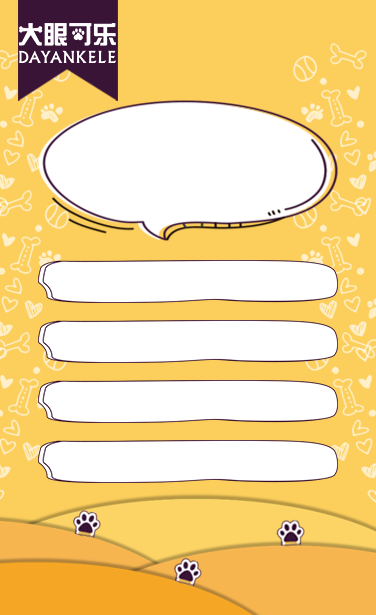
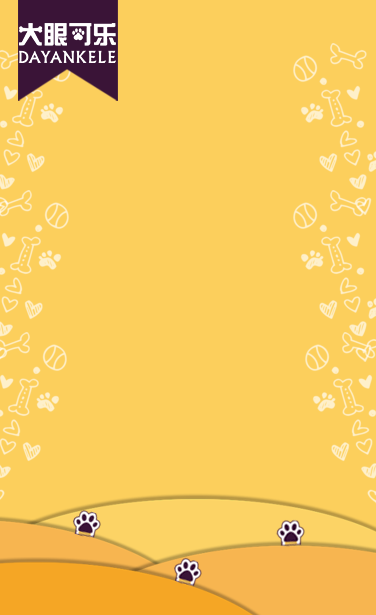
修改定制宠粮界面

diff --git a/wxchat/templates/wxchat/dogorder.html b/wxchat/templates/wxchat/dogorder.html
@@ -12,50 +12,76 @@
         top: 0;
         width: 100%;
         height: 100%;
-        max-width: 23.5em;
-        max-height: 38.4375em;
         z-index: 0;
         right: 0;
+        bottom: 0;
         margin: auto;
         background: url({% static 'wxchat/images/card_bg.png' %}) no-repeat;
-        background-size: 100% auto;
-        -moz-background-size: 100% auto;
-        -webkit-background-size: 100% auto;
+        background-size: 100% 100%;
+        -moz-background-size: 100% 100%;
+        -webkit-background-size: 100% 100%;
     }
 
-    .check_label{
-        height: 40px;
-        line-height: 40px;
-        padding: 0;
-        padding-left:55px;
-        margin-top:20px;
+    .card_middle{
+        width: 80%;
+        height: 70%;
+
+        position: absolute;
+        left: 50%;
+        top: 50%;
+        transform: translate(-50%,-50%);
     }
-    .check_label:first-child{
-        margin-top:34px;
+
+    .card_hd{
+        background: url({% static 'wxchat/images/card_title.png' %}) no-repeat;
+        max-width:297px;
+        max-height: 147px;
+        line-height: 147px;
+        margin: 0 auto;
+        font-size: 1.5625em;
+        text-align: center;
     }
-    .check_label:active{
+    .card_bd{
+        background-color: transparent;
+        margin-top:10px;
+    }
+    .card_bd:before{
+        border: 0px;
+    }
+    .card_bd:after{
+        border: 0px;
+    }
+    .card_item{
+        margin-bottom: 10px;
+        padding-left: 30px;
+        width:100%;
+        min-height: 45px;
+        background: transparent  url({% static 'wxchat/images/card_item.png' %}) no-repeat;
+        background-position: center center;
+        background-size:100% 99%;
+        -webkit-background-size: 100% 99%;
+        -moz-background-size: 100% 99%;
+    }
+    .card_item:active{
          background-color: transparent;
     }
+    .card_item:before{
+        border: 0px;
+    }
+
     </style>
 {% endblock extra %}
 {% block container %}
 <div class="weui-panel cardBg" >
-    <div class="weui-panel__hd">
-        <div class="weui-flex">
-            <div></div>
-            <div class="weui-flex__item" style="text-align: center;"></div>
-            <div ><a href="{% url 'dog-index' %}?next={{ request.get_full_path }}"><i class="icon iconfont icon-shouye2 pink r" ></i></a></div>
-        </div>
-    </div>
-    <div class="weui-panel__bd" style="color: #3a1437;">
+    <div class="weui-panel__bd" style="color: #3a1437;height:100%">
         <form action="" method="post" enctype="multipart/form-data" id="form1" >{% csrf_token %}
         {% for order in orders %}
-            <div id="sort_{{ order.sort }}" style="position: absolute;width:18.563em;max-height:27.188em;left: 2.5em;top: 6.25em;" {% if not forloop.first %} class="hide" {% endif %}>
-                <div class="weui-cells__title" style="padding-left:5px;padding-right:5px;height: 4.8em;line-height: 4.8em;color: #3a1437;text-align: center;font-size: 1.5625em;margin-top: 6px;margin-bottom:0px;" >{{ order.sort }}.{{ order.name }}</div>
-                <div class="weui-cells weui-cells_checkbox" style="background-color: transparent;height:307px;">
+            <div id="sort_{{ order.sort }}"  class="card_middle {% if not forloop.first %} hide {% endif %}" >
+                <div class="card_hd"  >{{ order.sort }}.{{ order.name }}</div>
+                <div class="weui-cells weui-cells_checkbox card_bd">
                     {% for s in order.dogstatustype.all %}
-                        <label class="weui-cell weui-check__label check_label" for="id_{{s.id}}" >
-                            <div class="weui-cell__hd">
+                        <label class="weui-cell weui-check__label card_item" for="id_{{s.id}}" >
+                            <div class="weui-cell__hd" style="width:25%;text-align: center;">
                                 {% if order.is_checkbox == 1 %}
                                     <input type="checkbox" class="weui-check" name="radio_{{order.sort}}_{{ order.id }}" id="id_{{s.id}}" data-item="sort_{{ order.sort }}" value="{{ s.name }}">
                                 {% else %}
@@ -64,11 +90,11 @@
                                 <i class="weui-icon-checked"></i>
                             </div>
                             <div class="weui-cell__bd">
-                                <p>{{ s.name }} {{ order.suffix_name }}</p>
+                                <span>{{ s.name }} {{ order.suffix_name }}</span>
                             </div>
                         </label>
                     {% endfor %}
-                    <div class="weui-flex" style="position: absolute; bottom:10px;width:100%">
+                    <div class="weui-flex" style="bottom:10px;width:100%">
                          {% if not forloop.first %}
                             <div class="weui-flex__item" style="text-align: center"><a href="javascript:void(0);" class="weui-btn weui-btn_mini weui-btn_primary" style="margin-top: 0px;" id="prev_{{ order.sort }}">上一页</a></div>
                          {% endif %}
@@ -114,8 +140,8 @@
                 var id = page_id.split('_')[1];
                 var next_id = parseInt(id) + 1;
 
-                $("#sort_" + id).hide();
-                $("#sort_" + next_id).show();
+                $("#sort_" + id).addClass('hide');
+                $("#sort_" + next_id).removeClass('hide');
 
             });
 
@@ -124,8 +150,8 @@
                 var id = page_id.split('_')[1];
                 var prev_id = parseInt(id) - 1;
 
-                $("#sort_" + id).hide();
-                $("#sort_" + prev_id).show();
+                $("#sort_" + id).addClass('hide');
+                $("#sort_" + prev_id).removeClass('hide');
 
             });
 

diff --git a/shopping/models.py b/shopping/models.py
@@ -230,7 +230,7 @@ class OrderItem(models.Model):
         ordering = ['-add_time']
 
     def __str__(self):
-        return '{}'.format(self.id)
+        return '{}'.format(self.goods.name)
 
     def get_cost(self):
         return self.price * self.quantity
